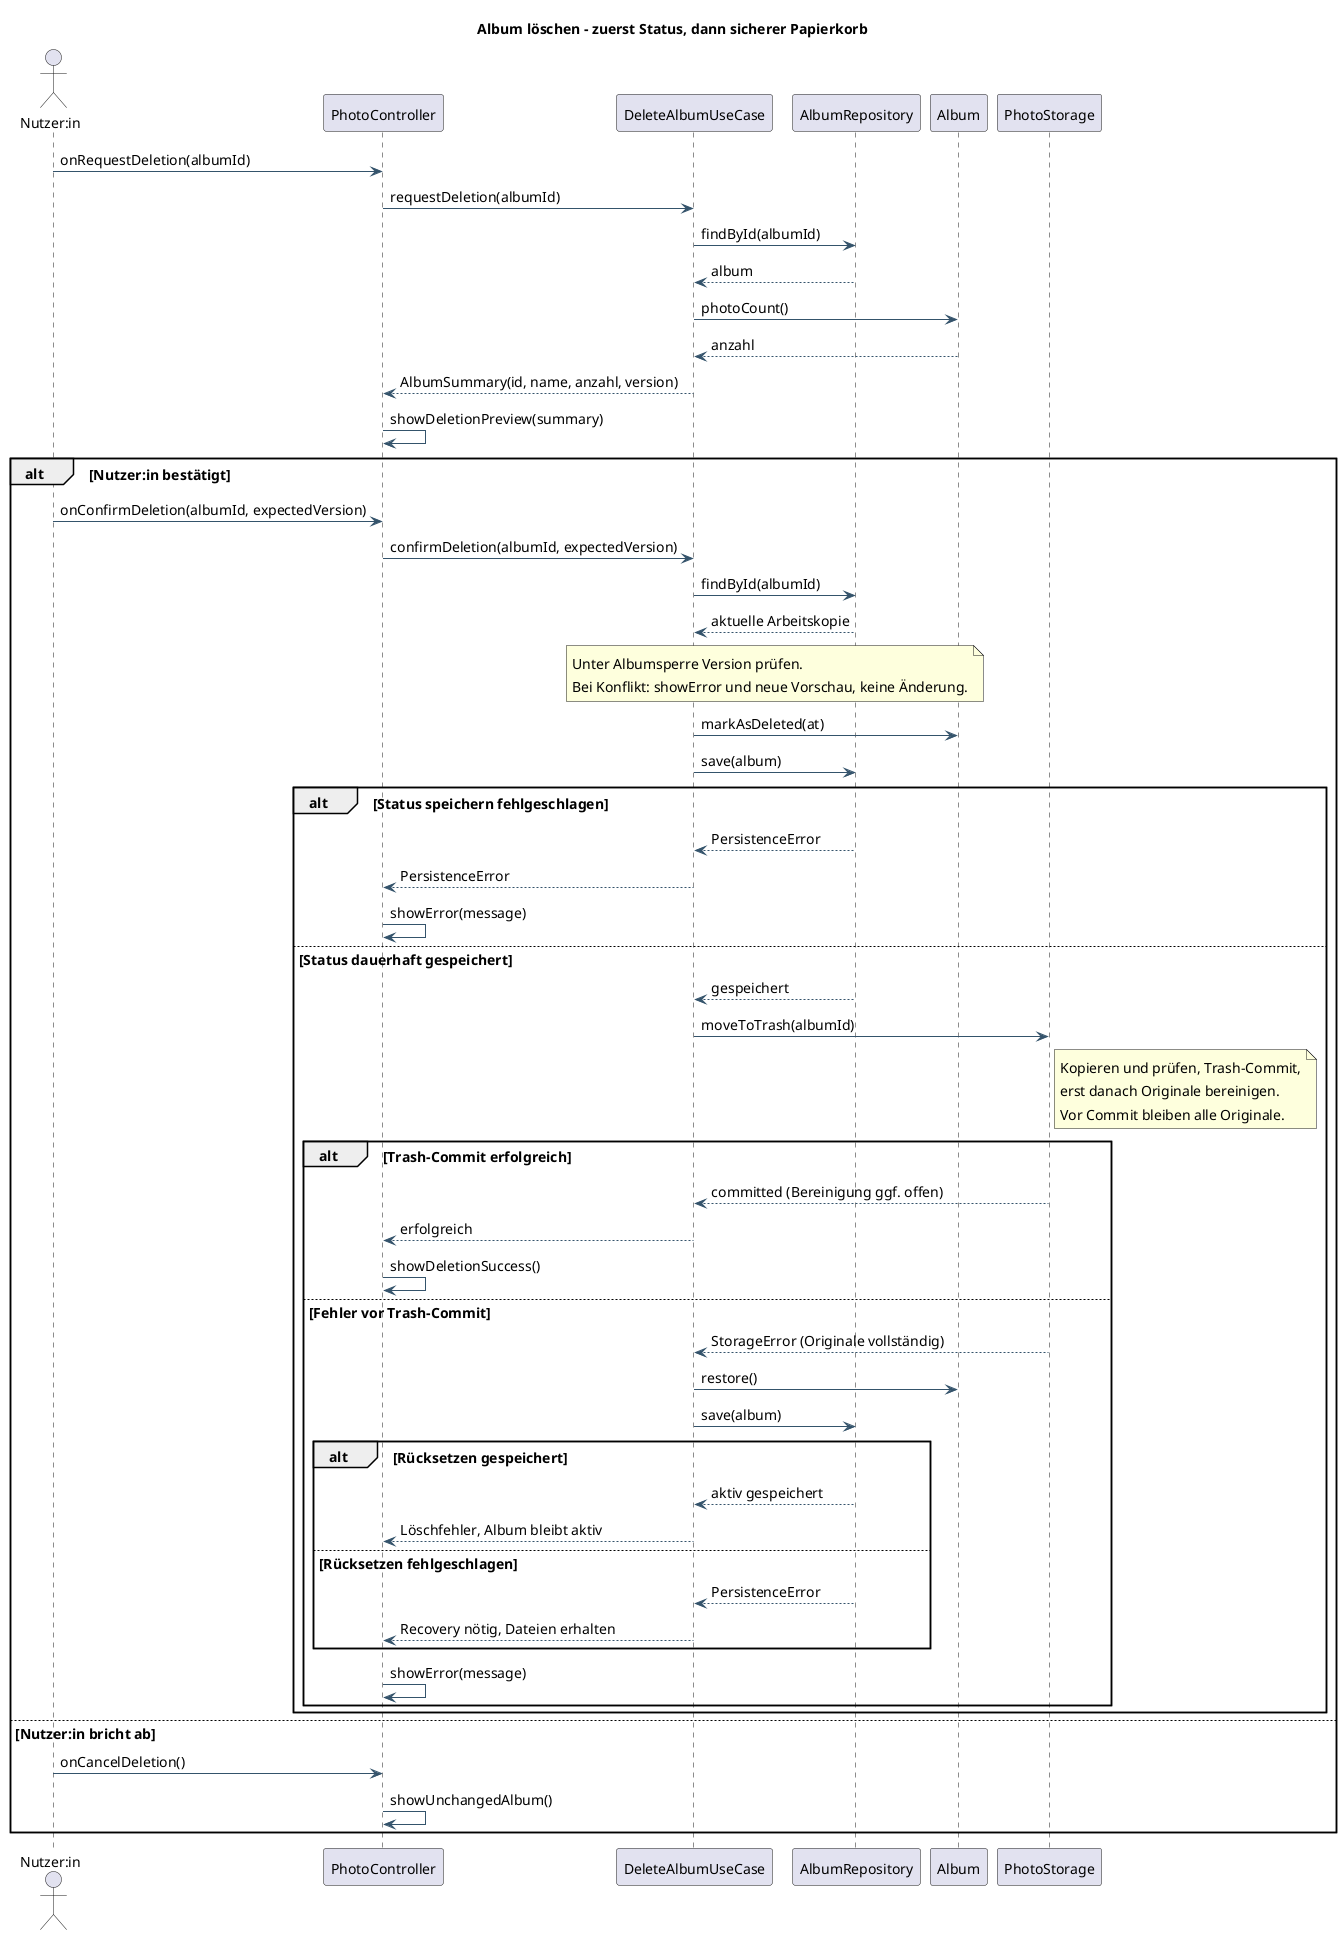
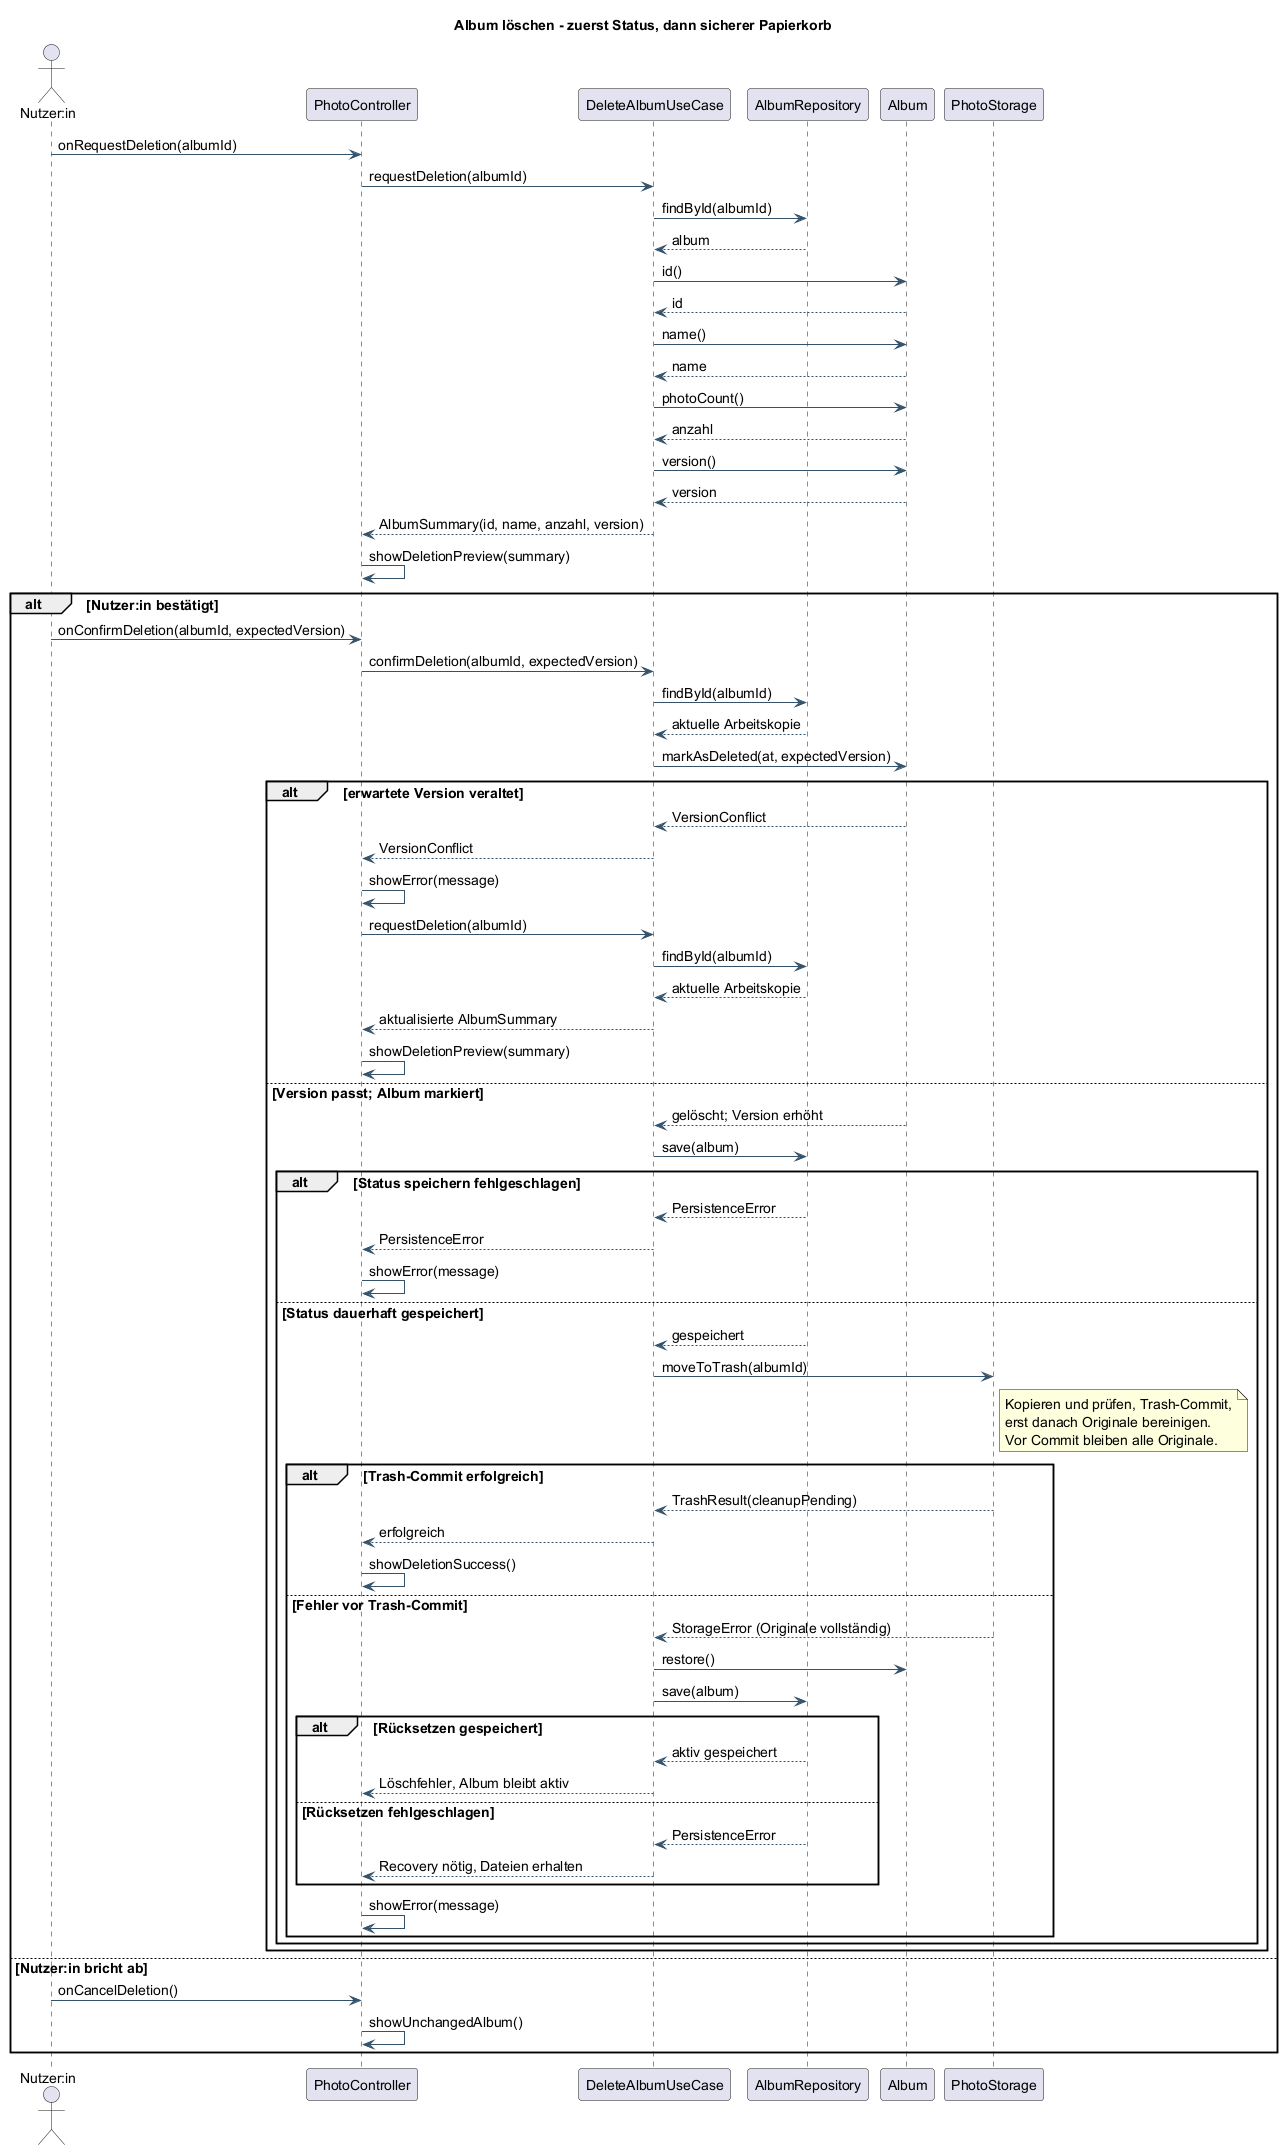
Block 3 review implementation

diff --git a/docs/design/SCHNITTSTELLEN.md b/docs/design/SCHNITTSTELLEN.md
@@ -8,19 +8,21 @@ Die Diagramme sind Zielentwurf; im Code sind nur die Domänengrundlagen umgesetz
 |---|---|
 | AlbumRepository.findById(id) | isolierte Arbeitskopie, Fehler bei unbekannter ID; kein null |
 | AlbumRepository.findAll() | List<AlbumSummary> ohne Bildbytes, auch gelöschte Alben ausfiltern |
-| AlbumRepository.save(album) | atomarer JSON-Austausch; Versionsprüfung; Fehler lässt alte Metadaten gültig |
+| AlbumRepository.save(album) | atomarer JSON-Austausch; Fehler lässt alte Metadaten gültig. Prüft keine fachliche Bestätigungsversion. |
 | PhotoStorage.stage(source) | begrenzte, unveränderliche Kopie; bei Fehler eigene Teilkopien verwerfen |
-| PhotoStorage.store(staged) | neue eindeutige Foto-ID und Referenz, kein Überschreiben vorhandener Dateien; bei Fehler keine committed neue Datei |
+| PhotoStorage.store(staged) | neue eindeutige Foto-ID, Ablage- und Vorschaureferenz, kein Überschreiben vorhandener Dateien; bei Fehler keine committed neue Datei |
 | PhotoStorage.discardStage(staged) | idempotent, Fehler werden für spätere Bereinigung erfasst, kein Fehler nach außen |
 | PhotoStorage.removeStored(stored) | löscht nur noch nicht referenzierte Importdatei; Fehler als Recovery-Aufgabe erfassen |
-| PhotoStorage.moveToTrash(albumId) | Vertrag nach ADR-003: vor Commit alle Originale erhalten, nach Commit nur Erfolg mit evtl. offener Bereinigung |
+| PhotoStorage.moveToTrash(albumId) | Vertrag nach ADR-003: vor Commit alle Originale erhalten; nach Commit `TrashResult(cleanupPending)` zurückgeben |
 | PhotoStorage.loadPage(albumId, offset, limit) | sortierte PhotoPage mit max. 100 Vorschauen, keine Originale im UI-Puffer |
-| ImageFileValidator.validate(staged, policy) | tatsächlichen Inhalt und Größe prüfen; unbekannte Policy ablehnen |
-| ImageHasher.sha256(staged) | SHA-256 gestreamt auf genau demselben Snapshot wie Validator/store |
+| ImageFactsInspector.inspect(staged) | technische Fakten des unveränderlichen Snapshots liefern (`ImageFacts(sizeBytes, detectedFormat)`); bei Lesefehler technischer Fehler |
+| ImageHasher.sha256(staged) | SHA-256 gestreamt auf genau demselben Snapshot wie ImageFactsInspector/store |
 | DescriptionSuggester.suggest(request) | optional, deaktiviert; vor/nach Guardrails, liefert nur Vorschlag |
 
-AlbumSummary: id, name, photoCount, version. StagedImage: opaker Token; Infrastruktur löst ihn
-intern auf einen Pfad auf. StoredPhoto: id, storageRef, capturedAt; toPhoto(hash) erzeugt Photo.
+AlbumSummary: id, name, photoCount, version. PhotoView: id, title, previewRef; einziges
+Foto-Ergebnis für die UI. TrashResult: cleanupPending. StagedImage: opaker Token; Infrastruktur löst ihn
+intern auf einen Pfad auf. StoredPhoto: id, storageRef, previewRef, capturedAt;
+toPhoto(hash) erzeugt Photo. Photo.title() liefert den Titel für PhotoView.
 PhotoPage: Liste aus Foto-ID und Vorschaubildreferenz, offset, hasMore; Details in Block 4.
 SourceRef, SuggestionRequest, Suggestion und Fehlerklassen sind im Zielentwurf noch nicht
 vollständig ausmodellierte DTOs. `source` bezeichnet eine neutrale, vom Adapter geprüfte
@@ -30,10 +32,15 @@ Quellreferenz, kein beliebiger vom Agenten übergebener Dateisystempfad.
 - Album: Name; 10.000; Hash-Eindeutigkeit je Album; aktive/gelöschte Zustandsübergänge;
   Foto-Reihenfolge und Entfernen.
 - Photo: ID, Hash, Ablagereferenz und editierbare Metadaten; offene Längen später ergänzen.
-- ImportPolicy: Dateigrenze und erlaubte Formate; ImageFileValidator führt die technische
-  Prüfung dieser Policy aus. Kein Dateizugriff in der Anwendung selbst.
-- Anwendungsfall: Reihenfolge, Sperre/Version, Fehlerkompensation; keine zweite Limitkonstante.
+- ImportPolicy: Dateigrenze und erlaubte Formate; `check(ImageFacts)` entscheidet fachlich und
+  wirft `ValidationError`. ImageFactsInspector ermittelt nur Größe und tatsächlich erkanntes
+  Format. Kein Dateizugriff in der Domäne oder Anwendung.
+- Album: `markAsDeleted(at, expectedVersion)` ist alleiniger Besitzer der fachlichen
+  Versionsprüfung und wirft `VersionConflict`; bei Erfolg erhöht Album die Version.
+- Anwendungsfall: Reihenfolge, Sperre und Fehlerkompensation; keine zweite Limitkonstante oder
+  parallele Versionsentscheidung. `save(album)` persistiert atomar, prüft aber keine Bestätigungsversion.
 - UI: Eingabe erfassen, Bestätigung einholen, Fehlertexte und Vorschauen anzeigen.
+  Sie erhält bei Fotoimport ausschließlich `PhotoView`, nie ein `Photo`-Domänenobjekt.
 
 ## Weitere Pflichtfunktionen im Zielentwurf
 Album erstellen/anzeigen/umbenennen und Foto entfernen werden in Block 4 über eigene

diff --git a/docs/design/CRC.md b/docs/design/CRC.md
@@ -3,23 +3,27 @@
 |---|---|---|
 | Album | Name 1–50/nicht leer; 10.000; Hash einmal pro Album; Reihenfolge; Löschstatus | Photo |
 | Photo | Identität, SHA-256, Ablagereferenz, Titel/Beschreibung | Album |
-| ImportPolicy | vereinbarte Größe und erlaubte Formate ausdrücken | ImageFileValidator |
-| AddPhotoUseCase | serialisierter Import, Fehlerkompensation, Mehrfachimport als Einzelimporte | AlbumRepository, Album, PhotoStorage, ImageFileValidator, ImageHasher |
-| DeleteAlbumUseCase | Vorschau mit Anzahl/Version; Status zuerst; Rollback vor Trash-Commit | AlbumRepository, Album, PhotoStorage |
-| AlbumRepository | Arbeitskopien/Übersicht/atomar speichern als Vertrag | FileAlbumRepository, AlbumSummary |
-| PhotoStorage | Snapshot, Ablage, Vorschaubildseiten, Copy-before-delete | LocalPhotoStorage, StagedImage, StoredPhoto |
-| ImageFileValidator | Port für reale Größen-/Inhaltsprüfung | FileImageFileValidator, ImportPolicy |
+| ImportPolicy | Größenlimit und erlaubte Formate fachlich anhand technischer Fakten prüfen | ImageFacts |
+| ImageFacts | Dateigröße und erkanntes Format neutral ausdrücken | ImageFactsInspector |
+| AddPhotoUseCase | serialisierter Import, Fakten ermitteln, Policy prüfen, Fehlerkompensation, Mehrfachimport als Einzelimporte | AlbumRepository, Album, PhotoStorage, ImageFactsInspector, ImportPolicy, ImageHasher, PhotoView |
+| DeleteAlbumUseCase | Vorschau mit Anzahl/Version; Albumversion fachlich prüfen; Status zuerst; Rollback vor Trash-Commit | AlbumRepository, Album, PhotoStorage |
+| AlbumRepository | Arbeitskopien/Übersicht/atomar speichern, ohne Bestätigungsversion zu entscheiden | FileAlbumRepository, AlbumSummary |
+| PhotoStorage | Snapshot, Ablage, Vorschaubildseiten, Copy-before-delete, TrashResult | LocalPhotoStorage, StagedImage, StoredPhoto |
+| ImageFactsInspector | technische Fakten aus dem Snapshot ermitteln, keine Policy-Entscheidung | FileImageFactsInspector, ImageFacts |
 | ImageHasher | Hash-Port ohne Dateizugriff im Use Case | Sha256ImageHasher |
-| PhotoController | Eingaben, Warnung, kurze Fehler, Darstellung | AddPhotoUseCase, DeleteAlbumUseCase |
+| PhotoView | UI-neutrale Fotoansicht mit ID, Titel und Vorschaureferenz | AddPhotoUseCase, PhotoController |
+| PhotoController | Eingaben, Warnung, kurze Fehler, Darstellung; kein Domänenzugriff | AddPhotoUseCase, DeleteAlbumUseCase, PhotoView |
 | DescriptionSuggester | optionaler Beschreibungsvorschlag | LlmDescriptionSuggester; Won’t |
 
 ## Walkthrough
 1. UI übergibt ausgewähltes Foto an AddPhotoUseCase; dieser lädt eine Album-Arbeitskopie.
-2. Storage erzeugt Snapshot, Validator prüft Policy, Hasher berechnet SHA-256.
+2. Storage erzeugt Snapshot, Inspector ermittelt Größe/Format; ImportPolicy entscheidet,
+   Hasher berechnet SHA-256.
 3. Album prüft Limit und Hash. Duplikat? Keine Ablage/Metadatenänderung; Snapshot aufräumen.
 4. Andernfalls neue Datei ablegen, Photo erzeugen, Album ändern, Metadaten speichern.
 5. Metadatenfehler? Nur neue Datei bereinigen; gespeichertes Album bleibt unverändert.
-6. Löschen: Summary zeigen, Version bestätigen, Status speichern, sicheren Trash aufrufen.
+6. Löschen: Summary zeigen, Bestätigungsversion an `Album.markAsDeleted` übergeben
+   (einziger Versionsprüfer), Status speichern, sicheren Trash aufrufen.
    Storage-Fehler vor Commit? Status zurücksetzen. Rollback-Fehler? Recovery, alle Originale da.
 
 Selbstprüfung durch KI ist kein Partnerreview. Die drei Prüffragen stehen im Review-Entwurf.

diff --git a/AI_USAGE.md b/AI_USAGE.md
@@ -14,8 +14,10 @@ Dieses Protokoll hält fest, wie KI bei der Projektarbeit eingesetzt wurde und w
   keinen Speicher-/Move-Fehlerpfad; ergänzte Pfade sind notwendig. Status zuerst allein schützt
   nicht gegen teilweise destruktives Verschieben: Copy-before-delete und Recovery erforderlich.
   Diagramme sind Zielentwurf, kein Nachweis implementierter Persistenz oder Web-App.
-- **Übernommener Vorschlag:** ImageFileValidator als Port mit Dateiadapter, damit Anwendung
-  keinen direkten Dateizugriff enthält. Konsistenzprüfung: Pfeilnamen gegen Empfängeroperationen.
+- **Übernommener Vorschlag:** Ursprünglich ImageFileValidator als Port mit Dateiadapter, damit
+  Anwendung keinen direkten Dateizugriff enthält. Im Architekturreview #17 präzisiert zu
+  ImageFactsInspector plus fachlicher Entscheidung durch ImportPolicy. Konsistenzprüfung:
+  Pfeilnamen gegen Empfängeroperationen.
 - **Verworfener Vorschlag:** Einfach nach beliebigem Move-Fehler `deletedAt` zurücksetzen.
   Begründung: nach einem Teil-Move könnten Originale fehlen; stattdessen definierter
   Copy-before-delete-Vertrag (ADR-003). Ebenso keine ungeklärte 100-Foto-Grenze übernehmen.
@@ -29,6 +31,26 @@ Dieses Protokoll hält fest, wie KI bei der Projektarbeit eingesetzt wurde und w
 - **Ergebnis** Dokumentationskorrekturen, Risikoübersicht und Vorlagen für Änderungsanträge und KI-Einträge.
 - **Bewertung** Belegte Projektentscheidungen und Annahmen aus den Anforderungen übernommen. Für das Vorgehensmodell fehlt im Checkout eine belastbare Quelle. Der bisher leere Abschnitt wurde entfernt.
 - **Reviewstand** Teamreview ausstehend.
+
+## Issue #17 – Review Architektur v1 (Block 3)
+
+- **Aufgabe/Ziel** Reviewhinweise zu fachlichem Regelbesitz, Versionsprüfung, Sequenz- und
+  Klassendiagrammkonsistenz sowie UI-/Domänengrenze umsetzen.
+- **Werkzeug und Modell** Copilot SDK in VS Code; genaue Modellvariante nicht ausgewiesen.
+- **Ergebnis** ImportPolicy entscheidet anhand technischer ImageFacts; Album ist alleiniger
+  Besitzer der Bestätigungsversion; PhotoView und TrashResult schließen fehlende DTO-Verträge.
+  CRC, Schnittstellen, Architektur, ADR-003 und PlantUML-Quellen entsprechend abgeglichen.
+- **Übernommen** Technische Dateifakten vom Adapter trennen; Fachentscheidung in die Domäne
+  verlagern. Veraltete Löschbestätigungen als `VersionConflict` im Album ablehnen. UI erhält
+  nur PhotoView. Fehlende Rückgabetypen und der Konfliktzweig sind ergänzt.
+- **Bereits im Checkout erledigt** Die im Review erwähnten Links auf nicht vorhandene
+  Block-3-Status-/PDF-/Prüfprotokolldateien waren in der aktuellen README und Architekturdatei
+  nicht mehr enthalten; daher keine weitere Linkänderung.
+- **Bewertung/Abgrenzung** Der Review betrifft den Block-3-Zielentwurf; noch nicht vorhandene
+  Use Cases und Adapter wurden nicht als produktiver Code vorgezogen. Benannte
+  Import-/Domänenfehler in der Java-Grundlage bleiben für Block 4 vorgemerkt.
+- **Überprüfung und Reviewstand** Maven-Validierung nach Dokument-/Diagrammänderung;
+  erneute Teamprüfung steht aus.
 
 ## Vorlage für künftige Einträge
 

diff --git a/ARCHITECTURE.md b/ARCHITECTURE.md
@@ -23,14 +23,16 @@ Composition Root außerhalb der fachlichen UI. Siehe [ADR-001](docs/adr/ADR-001-
 | DeleteAlbumUseCase | Vorschau, Bestätigung, zuerst Löschstatus speichern, dann Papierkorb |
 | AlbumRepository | `findById`, `findAll`, `save`; `AlbumSummary` für Übersicht, keine Bilddaten |
 | PhotoStorage | unveränderlicher Import-Snapshot, Ablage, seitenweise Vorschaubilder, sicherer Papierkorb |
-| ImageFileValidator | **Port** für technische Dateiprüfung; FileImageFileValidator liest Dateien |
+| ImageFactsInspector | **Port** für technische Fakten aus einem Snapshot; FileImageFactsInspector ermittelt Größe und erkanntes Format |
 | ImageHasher | SHA-256 des validierten Snapshots; Adapter Sha256ImageHasher |
 | PhotoController | UI-Aufrufe und Darstellung, kurze Fehlermeldungen; keine Geschäftsregeln |
 
 Album prüft die 10.000-Grenze und Hash-Eindeutigkeit selbst in `checkCanAdd`/`addPhoto`.
 Album prüft den Namen im Konstruktor und in `rename`. Die geplante Metadatenbearbeitung
-berücksichtigt die Textgrenzen aus GR-05. Die ImportPolicy legt Größenlimit und erlaubte
-Formate fest. Der Validator prüft den tatsächlichen Dateiinhalt. [CRC-Karten](docs/design/CRC.md)
+berücksichtigt die Textgrenzen aus GR-05. `ImageFactsInspector` meldet technische Fakten
+(Größe und erkanntes Format); `ImportPolicy.check(facts)` entscheidet als Domänenregel über
+Größenlimit und erlaubte Formate und meldet eine Ablehnung als `ValidationError`.
+[CRC-Karten](docs/design/CRC.md)
 und [Schnittstellen](docs/design/SCHNITTSTELLEN.md) konkretisieren die Verantwortlichkeiten.
 
 ![Klassen](docs/design/klassen.png)
@@ -46,7 +48,10 @@ Mehrfachimport ruft diesen Ablauf einzeln auf; bereits erfolgreiche Fotos bleibe
 serialisiert Änderungen je Album einschließlich Hash-/Limitprüfung.
 
 [Album löschen](docs/design/album-loeschen.png): Vorschau enthält Fotoanzahl und Version;
-Bestätigung gilt nur für diese Version. Zuerst `deletedAt` speichern, dann `moveToTrash`.
+`Album.markAsDeleted(at, expectedVersion)` ist alleiniger Besitzer der fachlichen
+Versionsprüfung und wirft bei veralteter Bestätigung `VersionConflict`, ohne den Zustand zu
+ändern. Bei Erfolg steigt die Version; dann wird `deletedAt` gespeichert und `moveToTrash`
+aufgerufen. Der Adapter liefert `TrashResult(cleanupPending)` nach erfolgreichem Commit.
 Dieser Port kopiert zunächst vollständig und prüft die Kopien, bevor aktive Dateien entfernt
 werden. Scheitert er vor dem Commit, bleiben Originale vollständig und der Status wird
 zurückgesetzt. Scheitert auch das Zurücksetzen, bleibt das Album als gelöscht markiert;

diff --git a/docs/adr/ADR-003-fehler.md b/docs/adr/ADR-003-fehler.md
@@ -24,8 +24,13 @@ entscheiden bei Startbereinigung, nicht das Alter der Datei allein.
 
 ### Album löschen
 `requestDeletion` liefert Summary inklusive Version und Anzahl, schreibt nichts.
-`confirmDeletion` prüft dieselbe Version unter Sperre, erzeugt eine Arbeitskopie,
-setzt deletedAt und speichert **zuerst** den Löschstatus; bei Speicherfehler keine Dateibewegung.
+`confirmDeletion` lädt unter Sperre eine Arbeitskopie und ruft
+`Album.markAsDeleted(at, expectedVersion)` auf. Album ist der einzige Besitzer der
+fachlichen Versionsprüfung: bei abweichender Version wirft es `VersionConflict`, ohne
+den Zustand zu verändern. Bei passender Version setzt Album `deletedAt` und erhöht die
+Version. Erst danach wird der Löschstatus gespeichert; bei Speicherfehler keine Dateibewegung.
+`AlbumRepository.save(album)` führt den atomaren JSON-Austausch aus, entscheidet aber nicht,
+ob die Bestätigungsversion fachlich gültig ist.
 `moveToTrash` ist eine logische Verschiebung mit folgendem Vertrag:
 - Vor Beginn Journal mit Operation-ID und Albumversion dauerhaft schreiben.
 - Alle Dateien in ein separates Trash-Verzeichnis **kopieren**, Integrität prüfen;
@@ -35,7 +40,8 @@ setzt deletedAt und speichert **zuerst** den Löschstatus; bei Speicherfehler ke
 - Fehler vor Commit: Originale vollständig; StorageError auslösen. Use Case setzt Status
   in Arbeitskopie zurück und speichert ihn. Auch bei Teilkopien bleiben alle Originale vorhanden.
 - Fehler nach Commit: keine fehlgeschlagene Bewegung melden und keinen Status-Rollback
-  versuchen; Trash ist vollständig, nur Bereinigung offen.
+  versuchen; Trash ist vollständig, nur Bereinigung offen. Erfolg liefert
+  `TrashResult(cleanupPending)`, damit die Rückgabe des Ports den Bereinigungsstatus ausdrückt.
 - Rollback-Speichern scheitert: Album bleibt gelöscht markiert, Originale vollständig,
   Recovery erforderlich. UI meldet „Löschen nicht abgeschlossen. Dateien bleiben erhalten.
   Bitte starte die App neu.“ Kein Erfolg und keine automatische Endlöschung.

diff --git a/CHANGELOG.md b/CHANGELOG.md
@@ -3,6 +3,9 @@
 ## [Unreleased]
 
 ### Changed
+- Architekturreview #17 umgesetzt: ImportPolicy entscheidet über ImageFacts, Album besitzt die
+  Versionsprüfung beim Löschen, PhotoView/TrashResult und der Konfliktpfad sind modelliert;
+  Architekturtexte und Diagrammquellen abgeglichen.
 - Projektdokumentation mit Implementierungsstand und Anforderungen abgeglichen. Vorlagen für Änderungsanträge und KI-Nutzung sowie eine Risikoübersicht ergänzt. (#4)
 - Block-2-Anforderungen übernommen und als Soll-Verhalten von der aktuellen Implementierung abgegrenzt.
 - Architektur und README weisen Cloud-, Medien- und Plattformanforderungen sowie offene Entscheidungen aus.
